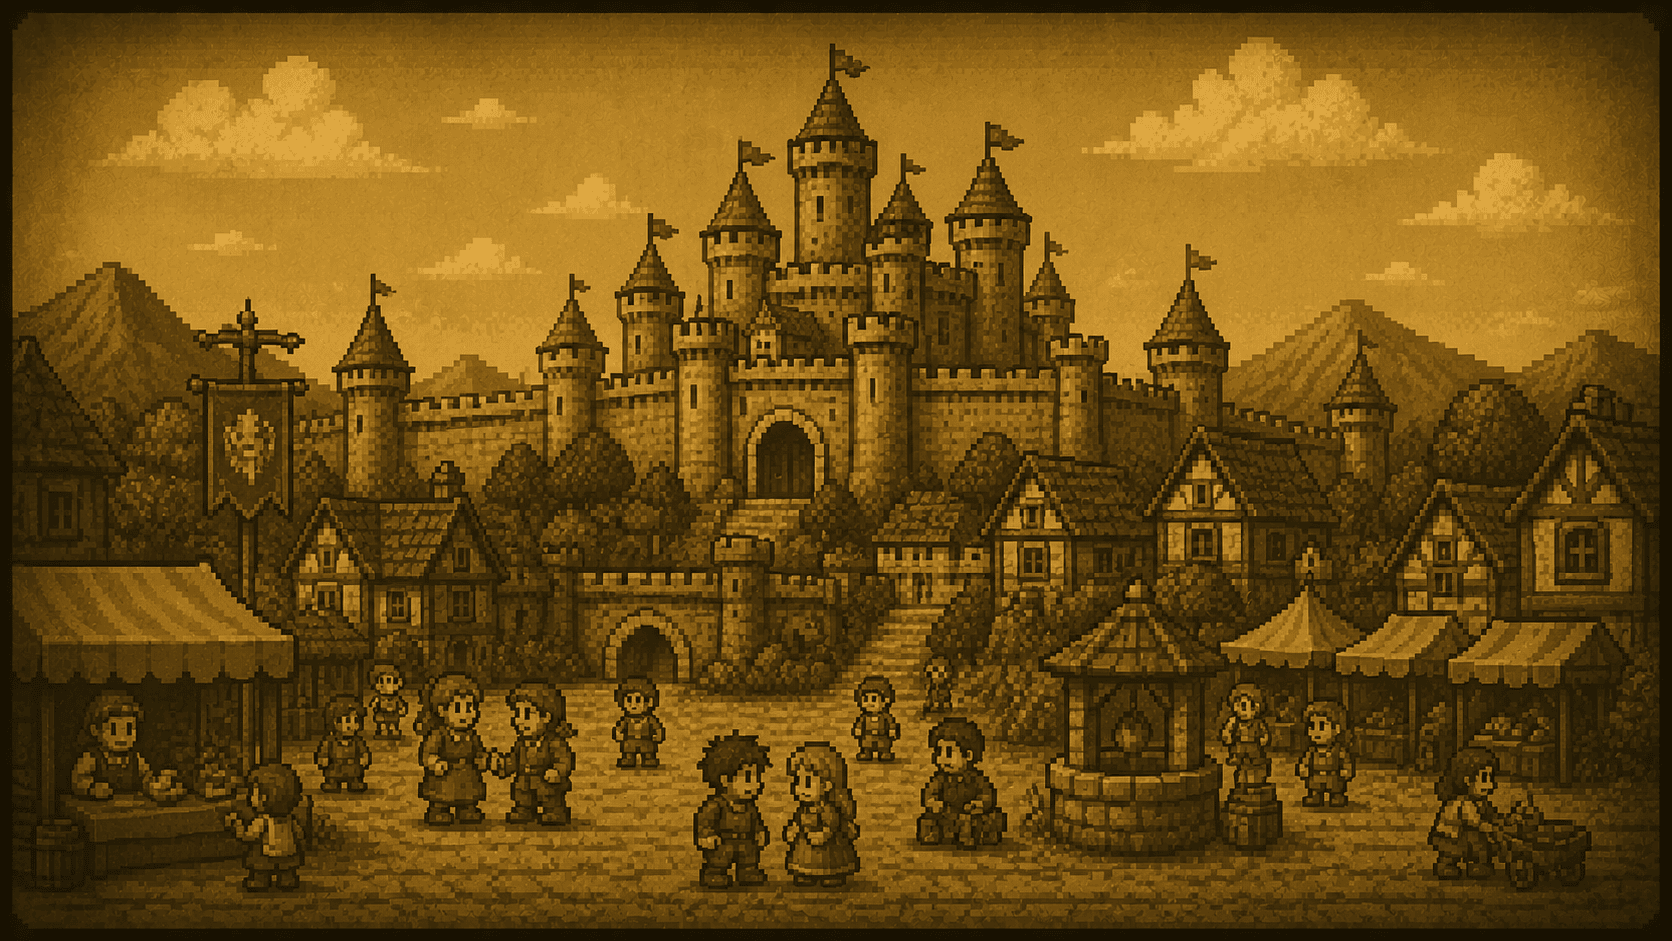
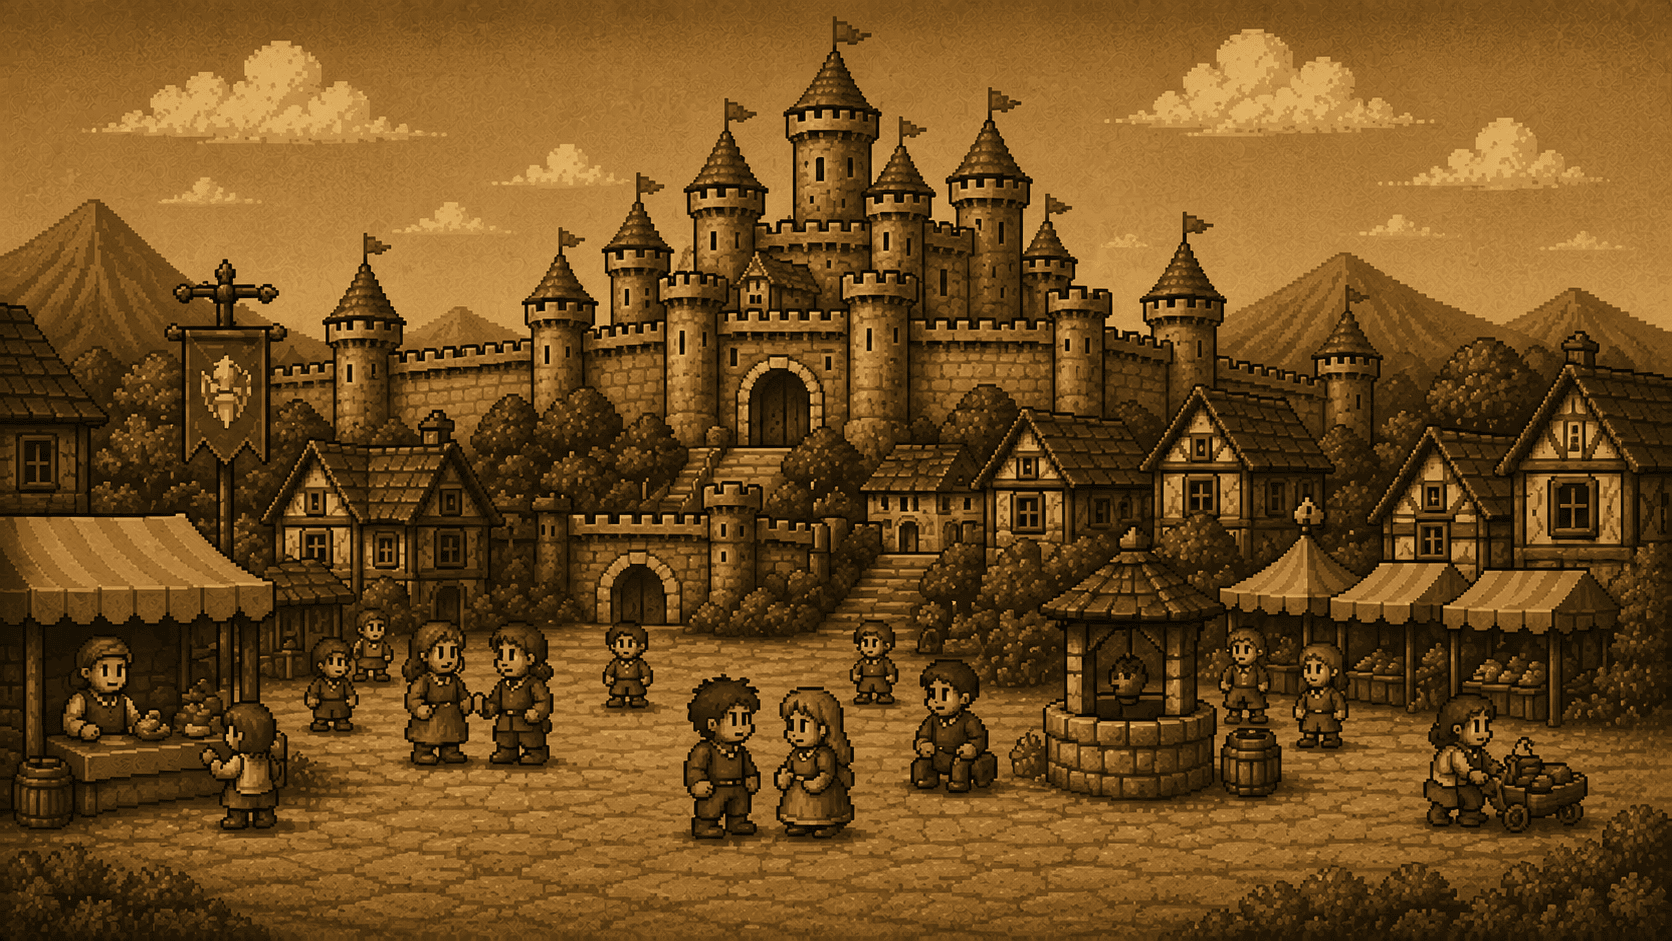
Revert credits title, rename DOCTYPE, update story art
- Revert the centered game title feature (38313f7) so credit lines
  and coin positions align again
- Change the credits DOCTYPE line to わせだクエスト
- Replace story_00-03 images and optimize them with pngquant

diff --git a/frontend/src/features/ending/CreditsScreen.jsx b/frontend/src/features/ending/CreditsScreen.jsx
@@ -181,14 +181,12 @@ function renderLineSegments(text) {
 /**
  * エンディングロール画面（クレジットの上を歩く足場ゲーム付き）。
  *
- * エンディング紙芝居のあとに表示する。ロールは画面中央に大きく出た
- * ゲームタイトル（`title` 行）から始まり、主人公はその上に立った状態で
- * スタートする。HTML 風に組んだクレジットの行が
+ * エンディング紙芝居のあとに表示する。HTML 風に組んだクレジットの行が
  * 下から上へゆっくり流れ、プレイヤーは主人公を操作して行の上に乗り続ける。
  * 行はコードのインデント・空行・長さの違いがそのまま足場配置になっており、
  * 行の種類（`buildCreditLines` の `kind`）で乗れるかどうかが変わる：
- * タイトル行（金色・中央寄せの大文字）とタグ行（金色）と日本語行（白）は
- * 乗れる足場、コメント行（グレー）はすり抜ける。乗れる行でも、テキスト中の空白（半角・全角）の部分は
+ * タグ行（金色）と日本語行（白）は乗れる足場、コメント行（グレー）は
+ * すり抜ける。乗れる行でも、テキスト中の空白（半角・全角）の部分は
  * 足場が無く、空白を広く（プレイヤー幅の 30px より広く）あけると
  * そこをすり抜けて下へ降りられる。相棒のフロチャロボは当たり判定なしで
  * 主人公に浮遊追従する。
@@ -311,7 +309,7 @@ function CreditsScreen({
   }, [lines]);
 
   /*
-   * 乗れる行（タイトル行・タグ行・日本語行）の矩形を実測して足場リストを作る。
+   * 乗れる行（タグ行・日本語行）の矩形を実測して足場リストを作る。
    * 行まるごとではなく、空白で区切られた文字のかたまり
    * （`data-platform-segment` の span）1 つが足場 1 枚。テキストに
    * 空白を入れるとそこは足場が無くなり、すり抜けて降りられる。
@@ -323,10 +321,7 @@ function CreditsScreen({
     const platforms = [];
     lines.forEach((line, index) => {
       const el = lineElsRef.current[index];
-      if (
-        !el ||
-        (line.kind !== 'title' && line.kind !== 'tag' && line.kind !== 'text')
-      ) {
+      if (!el || (line.kind !== 'tag' && line.kind !== 'text')) {
         return;
       }
       el.querySelectorAll('[data-platform-segment]').forEach((segment) => {
@@ -355,14 +350,12 @@ function CreditsScreen({
     const viewportH = () => root.clientHeight;
 
     /*
-     * スクロールの開始位置。通常は先頭のタイトル行（ゲームタイトル）が
-     * 画面の縦中央あたりに来る位置から始め、「エンディングが始まった」
-     * 感じを出す（主人公もタイトルの上に立って出現する）。
+     * スクロールの開始位置。通常は最初の行が画面下寄りに来る位置から。
      * エディタのテストプレイ（`testStartY` > 0）では、エディタで見えていた
      * 場所（キャンバスのスクロール位置＝画面上端のワールド座標）から始める。
      */
     let startScrollY =
-      isTestMode && testStartY > 0 ? testStartY : -viewportH() * 0.45;
+      isTestMode && testStartY > 0 ? testStartY : -viewportH() * 0.62;
 
     /*
      * 出現する足場。開始画面内（上端マージンより下〜画面の上から 3/4）に
@@ -738,7 +731,6 @@ function CreditsScreen({
   }, [showResult, finalCoins, finalRate, coins.length]);
 
   const lineClassByKind = {
-    title: styles.titleLine,
     tag: styles.tagLine,
     text: styles.textLine,
     comment: styles.commentLine,
@@ -757,12 +749,7 @@ function CreditsScreen({
               className={lineClassByKind[line.kind]}
               style={{
                 top: index * LINE_STEP_PX,
-                /*
-                 * タイトル行は `x` を使わず、全幅ブロック＋中央寄せで
-                 * どの画面幅でも真ん中に出す（足場の実測は中の span の
-                 * `offsetLeft` で行うので当たり判定もズレない）。
-                 */
-                left: line.kind === 'title' ? 0 : (line.x ?? FALLBACK_LINE_X_PX),
+                left: line.x ?? FALLBACK_LINE_X_PX,
               }}
             >
               {line.sprite && (

diff --git a/frontend/src/features/ending/editor/CreditsEditorScreen.jsx b/frontend/src/features/ending/editor/CreditsEditorScreen.jsx
@@ -16,13 +16,8 @@ const WORLD_BOTTOM_PAD_PX = 300;
 const NEW_LINE_TEXT = 'あたらしい ぎょう';
 const NEW_LINE_X = 176;
 
-/*
- * 行の種類の選択肢。ラベルは足場としての性質が分かる書き方にする。
- * `title` は本番では x を無視して常に画面中央寄せになる（エディタの
- * キャンバス上では選択しやすいよう x の位置にそのまま出す）。
- */
+/* 行の種類の選択肢。ラベルは足場としての性質が分かる書き方にする。 */
 const KIND_OPTIONS = [
-  { value: 'title', label: 'タイトル（かたい足場・金・大、本番では中央固定）' },
   { value: 'tag', label: 'タグ（かたい足場・金）' },
   { value: 'text', label: 'テキスト（ふつうの足場・白）' },
   { value: 'comment', label: 'コメント（のれない・グレー）' },
@@ -118,7 +113,7 @@ function toSampleText(text) {
  * GUI で編集する：
  *   - 「うごかす」モード: 行をドラッグして横位置（`x`）を変える。行を
  *     クリックすると下部に編集パネルが開き、表示テキスト・行の種類
- *     （タイトル / タグ / テキスト / コメント / くうはく）の変更、行の追加・削除が
+ *     （タグ / テキスト / コメント / くうはく）の変更、行の追加・削除が
  *     できる。コインはドラッグで自由に動かせ、ダブルクリックで削除する。
  *     テキスト中の空白は足場にならないので、1 行の中でスペースを広く
  *     （プレイヤー幅の 30px より広く）あけると、そこがすり抜けて
@@ -458,7 +453,6 @@ function CreditsEditorScreen({ onExit }) {
   }, [selectedIndex, lines.length]);
 
   const lineClassByKind = {
-    title: styles.titleLine,
     tag: styles.tagLine,
     text: styles.textLine,
     comment: styles.commentLine,

diff --git a/frontend/src/features/ending/CreditsScreen.module.css b/frontend/src/features/ending/CreditsScreen.module.css
@@ -2,9 +2,8 @@
  * エンディングロール画面（クレジットの上を歩く足場ゲーム付き）。
  * コードエディタ風のダーク背景に、HTML 風のクレジット行を絶対配置で並べ、
  * `.world` 全体を JS（rAF ループ）の translateY で上へ流す。行の色は
- * 種類＝足場の固さと対応させる：タイトル行（金・大・中央寄せ・かたい）、
- * タグ行（金・かたい）、日本語行（白・ふつう）、コメント行（グレー・
- * 乗れない）。
+ * 種類＝足場の固さと対応させる：タグ行（金・かたい）、日本語行（白・
+ * ふつう）、コメント行（グレー・乗れない）。
  */
 .root {
   position: relative;
@@ -28,7 +27,6 @@
  * `pre` なのは、連続した半角スペースを潰さず「すり抜けられる隙間」の
  * 幅としてそのまま表示するため。
  */
-.titleLine,
 .tagLine,
 .textLine,
 .commentLine {
@@ -37,20 +35,6 @@
   font-size: clamp(1rem, 2.2vw, 1.4rem);
   line-height: 1.9;
   letter-spacing: 0.04em;
-}
-
-/*
- * 先頭に出すゲームタイトルの行。金色の大文字で、`left: 0` ＋全幅＋
- * 中央寄せでどの画面幅でも真ん中に出す（JSX 側が `x` の代わりに
- * `left: 0` を渡す）。ロールはこの行が画面の縦中央に来た状態から始まる。
- */
-.titleLine {
-  width: 100%;
-  text-align: center;
-  color: #f0c040;
-  font-size: clamp(1.8rem, 5vw, 2.8rem);
-  letter-spacing: 0.18em;
-  text-shadow: 0 0 18px rgba(240, 192, 64, 0.35);
 }
 
 /* タグ行。金色＝かたい足場。 */

diff --git a/frontend/src/features/ending/buildCreditLines.js b/frontend/src/features/ending/buildCreditLines.js
@@ -17,14 +17,11 @@ import stagesData from '../../data/stagesLoader.js';
  *
  * 各行は `{kind, x?, text?, sprite?}` で、`kind` は描画と当たり判定の
  * 両方を決める：
- *   - `title`   : ゲームタイトルの行。金色・大きめ・画面中央寄せ・かたい
- *                 足場。ロールの先頭に置き、開始時は画面の縦中央に出る
  *   - `tag`     : タグ行。金色・かたい足場
  *   - `text`    : 日本語の中身の行。白色・ふつうの足場
  *   - `comment` : `<!-- -->` 行。グレー・乗れない（すり抜け）
  *   - `blank`   : 空行。何も描画せず、縦の間隔だけ空ける
- * `x` は画面左端からの横位置（px）で、配置エディタで調整する
- * （`title` 行だけは `x` を使わず常に中央寄せ）。
+ * `x` は画面左端からの横位置（px）で、配置エディタで調整する。
  *
  * Args:
  *     progress (object): 進捗のスナップショット。

diff --git a/frontend/src/features/ending/editor/CreditsEditorScreen.module.css b/frontend/src/features/ending/editor/CreditsEditorScreen.module.css
@@ -129,7 +129,6 @@
  * `pre` も本編と同じで、連続した半角スペース（すり抜けられる隙間）を
  * 潰さずに表示する。
  */
-.titleLine,
 .tagLine,
 .textLine,
 .commentLine {
@@ -141,21 +140,10 @@
   cursor: grab;
 }
 
-.titleLine:active,
 .tagLine:active,
 .textLine:active,
 .commentLine:active {
   cursor: grabbing;
-}
-
-/*
- * タイトル行。本番（`CreditsScreen`）では x を無視して画面中央寄せに
- * なるが、エディタ上では選択・ドラッグしやすいよう x の位置に出す。
- */
-.titleLine {
-  color: #f0c040;
-  font-size: clamp(1.8rem, 5vw, 2.8rem);
-  letter-spacing: 0.18em;
 }
 
 .tagLine {
